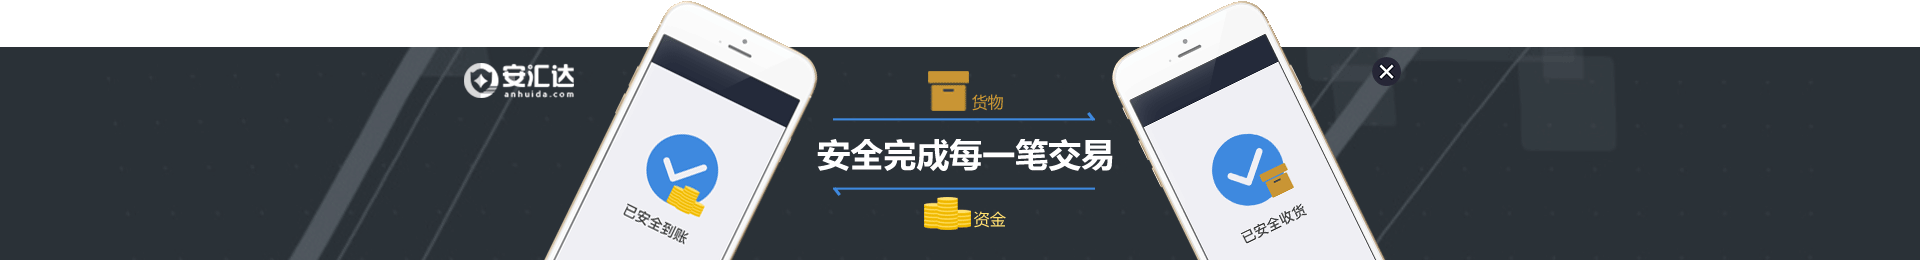
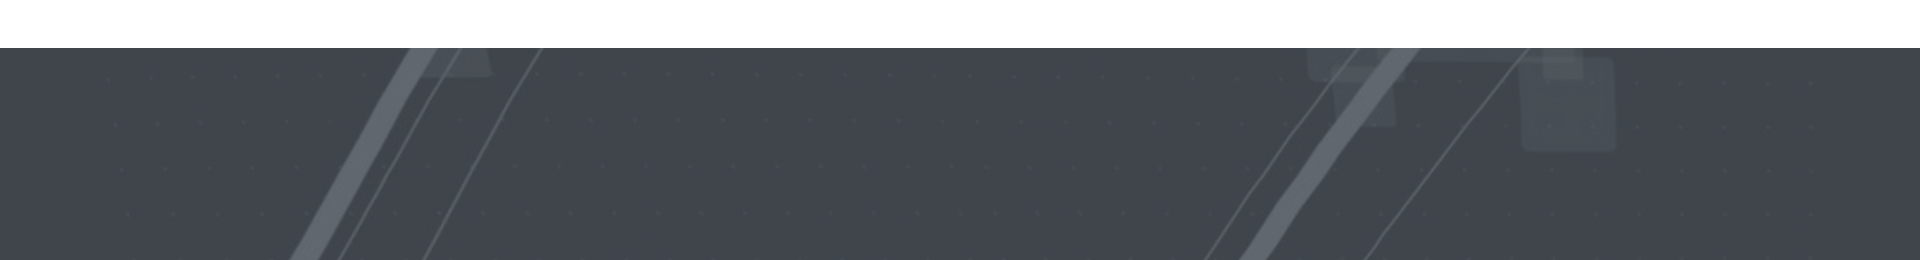
img、上线的html

diff --git a/pay_ad/pay_ad.html b/pay_ad/pay_ad.html
@@ -4,14 +4,10 @@
 	<meta charset="UTF-8">
 	<title>广告</title>
 	<style type="text/css">
-		*{
-			margin: 0;
-			padding: 0;
-		}
 		.smm_index_bottom_pay_ad{
 			width: 100%;
 			height: 260px;
-			background: lightblue;
+			background: url(smm_index_bottom_pay_ad_bg.png) no-repeat;
 			position: fixed;
 			left: 0;
 			bottom: 0;
@@ -19,7 +15,7 @@
 			z-index: 99999;
 		}
 		.smm_index_bottom_pay_ad_mid{
-			width: 941px;
+			width: 929px;
 			height: 260px;
 			margin: 0 auto;
 			background: url(smm_index_bottom_pay_ad_mid.png) no-repeat;
@@ -42,216 +38,16 @@
 
 	</style>
 </head>
-<body style="height: 3000px;">
-	<ul>
-		<li>1</li>
-		<li>2</li>
-		<li>3</li>
-		<li>4</li>
-		<li>5</li>
-		<li>6</li>
-		<li>7</li>
-		<li>8</li>
-		<li>9</li>
-		<li>10</li>
-		<li>11</li>
-		<li>12</li>
-		<li>13</li>
-		<li>14</li>
-		<li>15</li>
-		<li>16</li>
-		<li>17</li>
-		<li>18</li>
-		<li>19</li>
-		<li>20</li>
-		<li>21</li>
-		<li>22</li>
-		<li>23</li>
-		<li>24</li>
-		<li>25</li>
-		<li>26</li>
-		<li>27</li>
-		<li>28</li>
-		<li>29</li>
-		<li>30</li>
-		<li>31</li>
-		<li>32</li>
-		<li>33</li>
-		<li>34</li>
-		<li>35</li>
-		<li>36</li>
-		<li>37</li>
-		<li>38</li>
-		<li>39</li>
-		<li>40</li>
-		<li>41</li>
-		<li>42</li>
-		<li>43</li>
-		<li>44</li>
-		<li>45</li>
-		<li>46</li>
-		<li>47</li>
-		<li>48</li>
-		<li>49</li>
-		<li>50</li>
-		<li>51</li>
-		<li>52</li>
-		<li>53</li>
-		<li>54</li>
-		<li>55</li>
-		<li>56</li>
-		<li>57</li>
-		<li>58</li>
-		<li>59</li>
-		<li>60</li>
-		<li>61</li>
-		<li>62</li>
-		<li>63</li>
-		<li>64</li>
-		<li>65</li>
-		<li>66</li>
-		<li>67</li>
-		<li>68</li>
-		<li>69</li>
-		<li>70</li>
-		<li>71</li>
-		<li>72</li>
-		<li>73</li>
-		<li>74</li>
-		<li>75</li>
-		<li>76</li>
-		<li>77</li>
-		<li>78</li>
-		<li>79</li>
-		<li>80</li>
-		<li>81</li>
-		<li>82</li>
-		<li>83</li>
-		<li>84</li>
-		<li>85</li>
-		<li>86</li>
-		<li>87</li>
-		<li>88</li>
-		<li>89</li>
-		<li>90</li>
-		<li>91</li>
-		<li>92</li>
-		<li>93</li>
-		<li>94</li>
-		<li>95</li>
-		<li>96</li>
-		<li>97</li>
-		<li>98</li>
-		<li>99</li>
-		<li>100</li>
-		<li>101</li>
-		<li>102</li>
-		<li>103</li>
-		<li>104</li>
-		<li>105</li>
-		<li>106</li>
-		<li>107</li>
-		<li>108</li>
-		<li>109</li>
-		<li>110</li>
-		<li>111</li>
-		<li>112</li>
-		<li>113</li>
-		<li>114</li>
-		<li>115</li>
-		<li>116</li>
-		<li>117</li>
-		<li>118</li>
-		<li>119</li>
-		<li>120</li>
-		<li>121</li>
-		<li>122</li>
-		<li>123</li>
-		<li>124</li>
-		<li>125</li>
-		<li>126</li>
-		<li>127</li>
-		<li>128</li>
-		<li>129</li>
-		<li>130</li>
-		<li>131</li>
-		<li>132</li>
-		<li>133</li>
-		<li>134</li>
-		<li>135</li>
-		<li>136</li>
-		<li>137</li>
-		<li>138</li>
-		<li>139</li>
-		<li>140</li>
-		<li>141</li>
-		<li>142</li>
-		<li>143</li>
-		<li>144</li>
-		<li>145</li>
-		<li>146</li>
-		<li>147</li>
-		<li>148</li>
-		<li>149</li>
-		<li>150</li>
-		<li>151</li>
-		<li>152</li>
-		<li>153</li>
-		<li>154</li>
-		<li>155</li>
-		<li>156</li>
-		<li>157</li>
-		<li>158</li>
-		<li>159</li>
-		<li>160</li>
-		<li>161</li>
-		<li>162</li>
-		<li>163</li>
-		<li>164</li>
-		<li>165</li>
-		<li>166</li>
-		<li>167</li>
-		<li>168</li>
-		<li>169</li>
-		<li>170</li>
-		<li>171</li>
-		<li>172</li>
-		<li>173</li>
-		<li>174</li>
-		<li>175</li>
-		<li>176</li>
-		<li>177</li>
-		<li>178</li>
-		<li>179</li>
-		<li>180</li>
-		<li>181</li>
-		<li>182</li>
-		<li>183</li>
-		<li>184</li>
-		<li>185</li>
-		<li>186</li>
-		<li>187</li>
-		<li>188</li>
-		<li>189</li>
-		<li>190</li>
-		<li>191</li>
-		<li>192</li>
-		<li>193</li>
-		<li>194</li>
-		<li>195</li>
-		<li>196</li>
-		<li>197</li>
-		<li>198</li>
-		<li>199</li>
-		<li>200</li>
-	</ul>
+<body>
+
 	<div class="smm_index_bottom_pay_ad">
 		<div class="smm_index_bottom_pay_ad_mid">
-			<a href="https://pay.smm.cn/?index-bt" target="_blank" title="关闭"></a>
+			<a href="https://pay.smm.cn/?index-bt" target="_blank"></a>
 			<span class="smm_index_bottom_pay_ad_button"></span>
 		</div>
 	</div>
-	<script type="text/javascript" src="jquery.min.js"></script>
+
+	<script type="text/javascript" src="http://libs.baidu.com/jquery/1.11.1/jquery.min.js"></script>
 	<script type="text/javascript">
 		//定时器
 		
@@ -260,7 +56,7 @@
 		}, 2000);
 
 		$(".smm_index_bottom_pay_ad_button").on('click', function() {
-			$(".smm_index_bottom_pay_ad").hide();
+			$(".smm_index_bottom_pay_ad").slideUp();
 		});
 	</script>
 </body>
